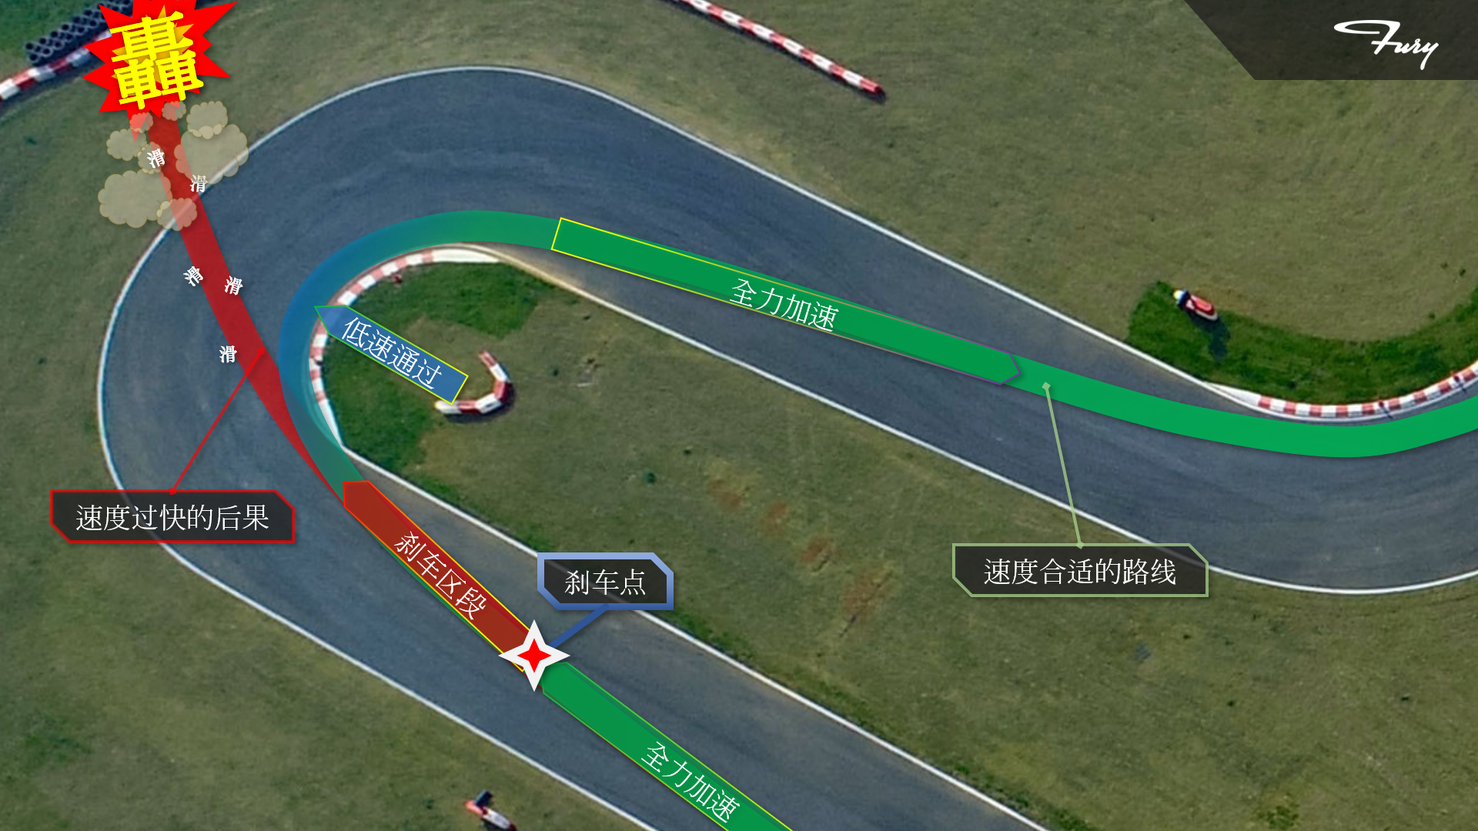
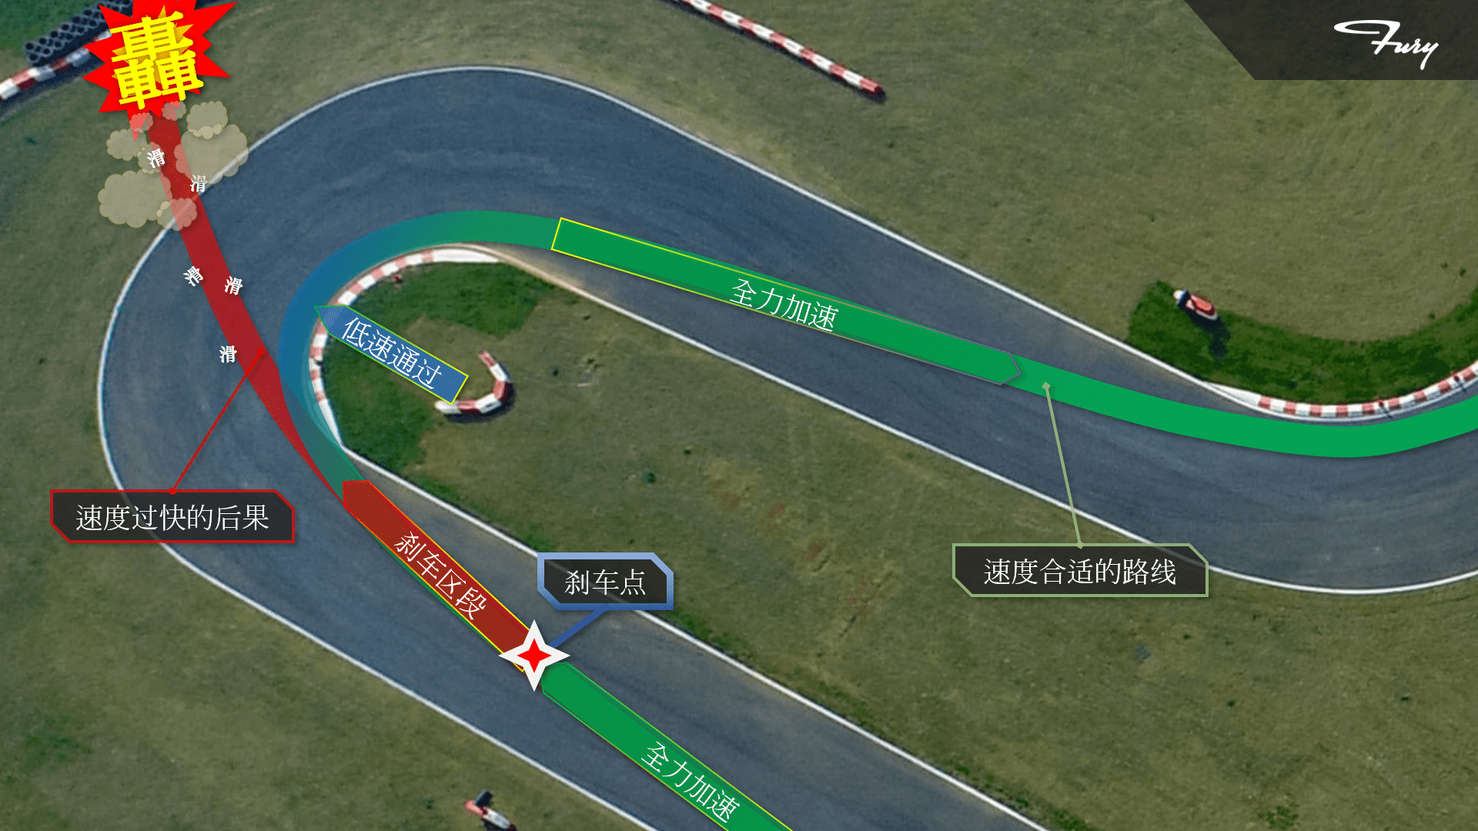
更新底盘车身基础01 旧文档图片压缩

Changed region(s): [[0.2188, 0.3667, 0.25, 0.3972], [0.0312, 0.0611, 0.0625, 0.0917]]

diff --git a/source/_posts/2020/02/底盘车身基础01-轮胎.md b/source/_posts/2020/02/底盘车身基础01-轮胎.md
@@ -1,0 +1,279 @@
+---
+title: 底盘车身基础01-轮胎
+date: 2020-02-09 22:50:00
+categories:
+- 底盘车身基础
+- 底盘组培训
+- 车身组培训
+author: 陈松格
+tags: 陈松格
+---
+
+不知道大家有没有自己去学习了解一些汽车理论方面的知识，这个系列希望能够帮助专业不相关的同学更快入门吧，顺带扯一句我专业生物医学工程我也就看明白了（笑
+
+<!-- More -->
+
+为什么说轮胎最重要，相信大家在看简介的时候就已经有了一定的理解。赛车的全部抓地力都是由轮胎与地面不过巴掌大的接触面实现的。所以我们为了赛车的提升做的所有优化本质上都是为了提升轮胎对地面的最大摩擦力。因此在所有的子系统之前，我们必须了解轮胎。
+
+> 轮胎是一台汽车上最重要的零件（没有之一）。
+>
+> 																	——~~鲁迅~~
+
+## 轮胎坐标系
+
+为了清晰地描述车轮的运动模式，我们定义轮胎坐标系来描述轮胎的运动模式。
+
+![轮胎坐标系](底盘车身基础01-轮胎/轮胎坐标系.png)
+
+轮胎坐标系为一个以**车轮正前方**为x轴正方向，**与地面垂直的正上方**为z轴正方向的**右手系**。
+
+在这个坐标系上我们可以清楚地表示一些轮胎的运动规律：
+
+- 轮胎运动过程中受到切向，侧向与地面法向三个方向的地面反作用力***F<sub>X</sub>***，***F<sub>Y</sub>***，***F<sub>Z</sub>***；
+- 轮胎受到三个方向的力矩：切向称为**翻转力矩*T<sub>X</sub>***，地面法向称为**回正力矩*T<sub>Z</sub>***，侧向为**滚动阻力矩*T<sub>Y</sub>***；
+- 轮胎的滚动并不是圆柱体的滚动，轮胎滚动可能存在**外倾角*γ***；
+- 轮胎的**实际行驶方向**可能与轮胎朝向产生偏角，这被表示为**侧偏角*u***。
+
+## 附着力
+
+赛车依靠轮胎受到的**地面的反作用力**运动，这就是所谓的“抓地力”，为了表示它的极限值，我们引入了**附着力**的概念。同时类比于摩擦系数，我们使用**附着系数**来称呼附着力与地面正压力的比值。
+$$
+F_{max}=F_Zφ\qquad φ=\frac{F_{max}}{F_Z}
+$$
+式中***F<sub>max</sub>***为附着力，***φ***为附着系数。根据力的合成分解原理，附着力与附着系数还可以分为**纵向(切向)**与**横向(侧向)**，分别对应最大的纵向与侧向的地面反力。与此同时，我们还使用**附着率*C***表示轮胎实际附着情况：
+$$
+C=\frac{F}{F_Z}
+$$
+可以看出附着率是一个变量，他与附着系数之恒间有***C ≤ φ***。
+
+我们知道，优化赛车的根本手段是提高赛车轮胎的附着力。根据公式，附着力的提高有两种方法。
+
+1. 提高**正压力*F<sub>Z</sub>***
+
+   如果单纯使用增重提高正压力的话，车重带来的惯量会损失赛车的灵活性。尤其是有输出功率限制的FSAE比赛，增重会极大的影响赛车的直线加速成绩。所以最好地提升手段是使用空气动力学套件，利用**气动下压力**使赛车在速度较快的弯角获得更大的附着力。
+
+2. 提高**附着系数*φ***
+
+   附着系数是一个受到**地面质量、轮胎橡胶性质、轮胎花纹、轮胎接地面积、轮胎倾角、滑移率、侧偏角**等等很多物理属性影响决定的常量。
+   
+   因为它非常复杂，随着工况变化而变化，所以目前没有实时定量的技术水平，只能通过测试估计。但是工程上已经针对各种条件总结出了**附着系数的估计值与变化规律**。整个底盘系统绝大部分优化基于附着系数变化的规律，我们在之后的章节中细节分析。请大家牢记附着系数的概念。
+
+## 轮胎的纵向运动
+
+之前我们了解到，当车轮转矩过大时，轮胎的滚动状态就会被破坏而进入滑动状态，发生空转或抱死。现在我们来讲点细节。
+
+### 现象
+
+如果车轮是一个刚性的圆柱体，而地面是理想粗糙平面，那么车轮与地面之间的滚动就完全依靠圆柱面与地面之间的静摩擦力实现了，此时地面的**附着系数**完全等于**滑动摩擦系数**。这时车轮转矩对应到地面切向反力会有两种状态：
+
+- 当车轮转矩输出到接触面面上的切向力小于附着力(***rT ≤ F<sub>Xmax</sub>***)，此时车轮完全滚动。切向力等于这个转矩的输出。
+- 当车轮转矩输出到接触面上大于附着极限(***rT > F<sub>Xmax</sub>***)，此时车轮开始滑动，切向力达到附着力并保持在附着力上。
+
+然而现实中的轮胎是充气的柔软橡胶表面，地面也是颗粒不平的粗糙平面。这个现实问题让我们不能用上述简单模型描述轮胎运动。实际上的轮胎运动过程中，由于橡胶的柔软，轮辋经由轮胎将力传导至地面的过程中，**轮胎接地面会产生微小的形变**。所以轮胎在加减速行驶过程中，胎面一直会与地面之间产生**微观上的滑移**。也就是说，轮胎在加减速行驶过程中，一直处于一种“**边滚边滑**”的状态。
+
+![纵向轮胎变形](底盘车身基础01-轮胎/纵向轮胎变形.png)
+
+为了描述这种状态，我们引入**滑移率**的定义：
+
+### 滑移率
+
+$$
+s=\frac{u-u_w}{u}\times100\%=\frac{u-rω}{u}\times100\%
+$$
+式中***u***表示车速，***u<sub>ω</sub>***表示车轮转动线速度，***ω***为车轮滚动角速度，***r***为车轮半径。滑移率表示**滑动摩擦在车轮纵向运动中所占的比重**。当车轮纯滚动时，***u<sub>ω</sub>= u*** ，***s = 0***；当车轮抱死纯滑动时，***u<sub>ω</sub>= 0*** , ***s =100%***；当车轮边滚边滑时，***u > u<sub>ω</sub>*** ，***0 < s < 100%***。车轮滑移率越大，说明车轮在运动中滑动成分所占的比例越大。
+
+滑移率能够描述轮胎因为**微观形变产生的滑移**（肉眼几乎不可见），也能够描述**轮胎的宏观滑移**（明显的车轮滑行）。经验告诉我们，一般当滑移率***s ≤ 0.2***，轮胎几乎不会产生宏观滑移；当这个数值超过***0.2***并逐渐增大，轮胎开始产生宏观滑移，并且微观滑移的强度会随着这个数值增大而减弱。这个规律的产生原因与橡胶轮胎的物理特性有关，我把有关内容放扩展吧这里不赘述。
+
+现在我们来看看滑移率这个指标对赛车的影响
+
+### 定性分析
+
+由于**轮胎的变形程度受到地面纵向反力的直接影响**，即有地面纵向反力的产生意味着轮胎一定产生微观滑移。也就是说若将**滑移率**与车轮所受**纵向反力**作图，这条线将会**通过原点**。因此**滑移率能够在一定程度上直接反应轮胎所受纵向反力的大小**。
+
+现在我们将滑移率直接设置为车轮的参数变量，这意味着如果此时有一个地面法向反力作用在这个带有滑移的车轮上，车轮将输出这个滑移所对应的纵向反力。
+$$
+F_X=f[F_Z,s]
+$$
+显然这个纵向反力是能够根据输入的法向力***F<sub>Z</sub>***与滑移率***s***唯一确定的。并且这个力应当是在这个状态下轮胎能够受到的最大纵向反力，符合**纵向附着力*F<sub>Xmax</sub>***的定义。
+$$
+F_{X_{max}}=f[F_Z,s]
+$$
+
+所以若我们消去地面法向反力***F<sub>Z</sub>***的影响，就可以看出**滑移率*s***与**纵向附着系数*φ<sub>X</sub>***之间存在的对应关系。这样我们就得到了**滑移率 - 纵向附着系数**的图像。
+$$
+φ_X=f[s]
+$$
+![滑移率一](底盘车身基础01-轮胎/滑移率一.png)
+
+从这个图像里我们可以看出：
+
+- 在非松质路面下
+  - 随着滑移率提升，轮胎的附着能力基本符合**线性增长-峰值区间-衰减**的规律；
+  - 附着系数峰值普遍出现在上文提到的**微观滑移与宏观滑移相结合**的区间。也就是说，最佳的加速或制动性能出现在轮胎肉眼观察将要出现滑动的临界点，符合客观规律；
+  - 这个曲线会受到**路面条件**很大的影响，实际上附着系数本身就是一个受到很多因素影响的常量。
+- 在松质路面下
+  - 斜率变化平缓，超高的滑移率反而会带来更强的附着能力；
+  - 后段附着能力提升来源于轮胎在松质土地中“刨地”的现象。这就是拉力赛中车手更多使用漂移技术的原因。如果你了解拉力，你会发现虽然在烂路赛段车手会漂移，但在铺装路面赛段车手还是会老实抓地跑的。
+
+实际上轮胎的纵向力学性能受到很多因素的影响，这条曲线的参数还会因为轮胎的配方花纹气压等因素发生改变，在此不赘述。
+
+以上就是轮胎纵向力学的基本规律，接下来讲轮胎的侧向力学规律。
+
+## 轮胎的侧偏运动
+
+轮胎侧向力学研究的是轮胎实际行驶方向与轮胎指向产生**侧偏角**的原因。
+
+### 现象
+
+与纵向运动采用相同的方式开始吧：我们再次假设轮胎是一个刚性圆柱，而地面是一个粗糙的理想平面。轮胎与地面的**侧向附着系数*φ<sub>Y</sub>***等于胎面的**摩擦系数**。此时如果车轮带有初速度，并且不受外力作用，车轮将匀速地沿着轮胎所指的方向滚动。此时如果给轮胎施加**侧向力*F<sub>y</sub>***，那么轮胎会受到地面的**侧向反力*F<sub>Y</sub>***的作用。按照这个逻辑，就可以估计出轮胎侧向运动的现象：
+
+- 当**侧向力**未达到轮胎的侧向附着力(***F<sub>y</sub> ≤ F<sub>Ymax</sub>***)，轮胎在侧向上与地面仍然是静摩擦的状态，所以轮胎依旧沿着原有的方向直线匀速滚动；
+- 当侧向力超过了轮胎的侧向附着极限(***F<sub>y</sub> > F<sub>Ymax</sub>***)，轮胎在侧向上开始了**滑动摩擦**，发生**侧向运动**。侧向运动与原有的滚动的合运动与轮胎的指向间产生了一个角度，我们称其为**侧偏角*α***，轮胎的行驶方向与实际指向不同，这就是轮胎的**侧偏运动**。
+
+![侧偏角](底盘车身基础01-轮胎/侧偏角.png)
+
+然而需要再一次强调的，现实中的轮胎是一个柔软的充气橡胶物体，地面也是颗粒不平的，所以上述理想模型肯定是无法描述实际情况的。侧偏运动的实际原理较之纵向运动在理解上稍复杂一些，我们另起一段↓
+
+在地面侧向反力的作用下，如果轮胎是静止不动的，那么轮胎靠近地面的部分就会被“掰弯”
+
+![轮胎形变](底盘车身基础01-轮胎/轮胎形变.png)
+
+在这种形变下，**轮胎接地面的中心轨迹就会发生变化**，我们可以在图上清楚地看出来：**A<sub>0</sub>**到**A<sub>5</sub>**的位置在正视图上发生了明显的弯曲。如果此时轮胎滚动的话，很容易想象的是，**车轮的滚动路线就会沿着轮胎的中心线发生偏移**。一个柔软的轮胎在收到侧向力状态下滚动的时候，这种弯曲的状态是实时发生的，轮胎每转过一个点，就会随着这个轨迹发生偏移。因为这个现象，**只要轮胎受到侧向力的作用，它就会产生侧偏运动**。
+
+理解了之前在纵向运动中描述的“**微观形变**”，你就会意识到，轮胎**侧偏角**与**滑移率**一样，与轮胎受到的侧向反力直接对应，**当轮胎受到侧向反力*F<sub>Y</sub>*，它就会产生侧偏角*α***。因此我们也可以用**侧偏角一定程度上反应轮胎受到侧向反力的大小**。
+
+### 定性分析
+
+现在我们可以用熟悉的方式操作了：我们将侧偏角也作为车轮运动的参数变量，将**法向反力*F<sub>Z</sub>***、**侧偏角*α***作为输入，就可以直接得到轮胎所受到的**侧向反力*F<sub>Y</sub>***的值：
+$$
+F_Y=f[F_Z,α]
+$$
+可以看到，这个侧向反力也是可以根据输入唯一确定的，我们把它直接换成**侧向附着力*F<sub>Ymax</sub>***:
+$$
+F_{Y_{max}}=f[F_Z,α]
+$$
+然后我们将**轮胎的法向力*F<sub>Z</sub>***设为不同的定值，就得到了**侧偏角 - 侧向反力**的图像。
+$$
+F_{Y}=f[α]
+$$
+![侧偏角一](底盘车身基础01-轮胎/侧偏角一.png)
+
+这个图像告诉我们：
+
+- 与滑移率相同，侧偏角图像有一个**线性增长**的区间，而在到达峰值后会**很缓慢的衰减**；
+- 由于轮胎侧向运动的速度与纵向运动速度之间存在着很大的差距，所以侧向反力的图像**与纵向附着系数的前段非常相似**。
+- 图像因变量为侧向反力，所以随着**地面法向反力*F<sub>Z</sub>***的增加和减少，曲线的幅度会发生变化。
+
+看到这里大家可能产生了一点疑惑：**为什么使用侧向反力作为因变量，而不是侧向附着系数呢？**
+
+再稍加仔细地观察，上面的图像中随着正压力的变化，曲线的变化并不是线性的：**轮胎的侧向附着系数与轮胎所受的法向反力相关**。轮胎产生扭转变形引起的侧偏运动相较于纵向的滑移，对压力更加敏感，过高的压力会引起侧向附着系数的下降。
+
+因此我们描述轮胎侧向性能的时候，一般不用侧向附着系数，而是**侧偏刚度*k***。在很多文献中的**附着系数*φ***指纵向附着系数。
+
+### 侧偏刚度
+
+侧偏刚度定义为轮胎所受**侧向力*F<sub>y</sub>*与侧偏角*α*的比值**，单位为（***N/deg***)。在轮胎坐标系中观察规律，我们会发现侧向力与侧偏角的方向是相反的，所以**侧偏刚度是一个负值**。如果将它放在图像上，它是**侧偏角 - 侧向力**图像在原点的斜率。由于图像在到达峰值区域前仍然有相当长的一段线性区间，因此侧偏刚度还是能够很好地用来描述轮胎的侧向性能的。
+
+现在我们看看**垂直载荷(法向力) - 侧偏刚度**的图像
+
+![垂直载荷-侧偏刚度](底盘车身基础01-轮胎/垂直载荷-侧偏刚度.jpg)
+
+↑很清楚地看见，对于同种型号的轮胎，随着法向力的增加，侧偏刚度有**线性增长 - 增速放缓 - 下降**的变化趋势。因此可以很自然地看出为什么在评价侧向性能指标时不使用侧向附着系数。在这个趋势下我们做出**垂直载荷 - 侧偏力(侧向反力)**的图像，它应该是这样的↓
+
+![垂直载荷-侧偏力](底盘车身基础01-轮胎/垂直载荷-侧偏力.jpg)
+
+这两幅图像告诉我们：
+
+- 决定赛车过弯性能的本质还是轮胎，赛车轮胎本身更高的侧偏刚度决定了赛车能够实现远超民用车的过弯响应；
+- 由于侧偏性能受到轮胎垂直载荷的影响，重量大的赛车在弯道上必然陷入劣势。因此**车子还是越轻越好**；
+- 气动下压力能够在不提升车重的基础上提升过弯性能。
+
+实际上如果垂直载荷无限增大，轮胎的纵向力学特性也会受到这样的影响。但是一般载荷无法增大到这个量级，而且在到达明显变化的区间之前，轮胎应该已经爆了（笑
+
+### 附着椭圆
+
+现在我们来看看侧偏运动与纵向运动之间的关系。之前我们了解过**g值圆**的概念。使用g值圆衡量车手驾驶水平时，我们会注意刹车 - 入弯的加速度转移过程。![图18](底盘车身基础01-轮胎/图18.png)
+
+纵向附着与侧向附着的共同点就是都伴随着轮胎的形变，**橡胶的变形张力极限**就是这些加速度极限的来源。所以轮胎能提供的最大纵向力与侧向力是关联在一起的。如果将轮胎的纵向附着力与侧向附着力做图，就会是如下的形式↓![附着椭圆](底盘车身基础01-轮胎/附着椭圆.jpg)
+
+在图上我们很容易就能看出：在不同的侧偏角下，侧向附着都有随着随着纵向附着增大而减小的趋势。这些图线的包络形成一个椭圆形，因此被称为**附着椭圆**。
+
+如果你理解了以上内容，你就已经掌握轮胎行驶过程中两个分运动方向的基本运动形式了。现在我们了解一些其他的关键知识点吧。
+
+## 回正力矩
+
+我们转向时，会在方向盘上感受到促使方向盘回正的力，组成这个力的成分中，就有一部分来自于轮胎的**回正力矩**。
+
+### 现象
+
+在轮胎坐标系中，回正力矩被定义为地面法向的力矩。当轮胎侧偏运动的时候，在这个方向上就会有力矩使**轮胎倾向于与轮胎实际运动的方向对正**。
+
+要解释这个力矩产生的原因，我们还是那句老话：**轮胎是一个柔软的充气橡胶圆柱**。由于刚性轮理想模型不会产生回正力矩，这里我们直接讲实际现象。
+
+当在地面上滚动的时候，柔软的**轮胎与地面之间存在一个近似于椭圆或圆角矩形的接地面**。如果我们再细分，这个面可以被分为很多**与轮轴平行的线微元**。很好理解的是，在轮胎滚动的瞬态过程中(不存在宏观滑移)，这个接地平面最后段旧的微元离开地面，而最前端又有新的微元接触地面，循环往复。↓![回正力矩图解1](底盘车身基础01-轮胎/回正力矩图解1.png)
+
+现在我们给轮胎加上侧向力，于是轮胎开始有了侧偏运动，接地面就与正常滚动的轮胎相比发生偏移↓![接地面偏移](底盘车身基础01-轮胎/接地面偏移.png)
+
+上图中存在一个非常明显的问题：接地面前后端的偏移量是相同的,这是轮胎静止产生的。在轮胎滚动的过程中，由于接地面的前后端接地时间不同，**后端明显比前端接触地面时间更长，偏移距离也更长**，因此这个接地面在滚动时应该是一个接近平行四边形的状态↓![接地面偏移修正](底盘车身基础01-轮胎/接地面偏移修正.png)
+
+这样一来回正力矩的产生也就不难理解了：根据弹力的原理，**接地面后端更大的形变量显然会引起更大的轮胎回弹力**。在接地面上的**前后弹力差**形成了促使轮胎指向实际行驶方向的回正力矩。
+
+### 定性分析
+
+回正力矩与侧偏运动是同时存在的，我们使用侧偏角来关联轮胎产生的侧向附着力，也用侧偏角来关联回正力矩。先人根据经验整理出了如下图所示的关系↓![回正力矩图像](底盘车身基础01-轮胎/回正力矩图像.jpg)
+
+这张图像可以很清晰地看出：
+
+- 回正力矩的变化趋势同样是近**线性增长 - 峰值区间 - 减弱**；
+- 随着正压力的变化存在幅度变化；
+
+更加仔细地观察，我们会发现，相较于纵向附着与侧向力，**回正力矩的下降非常剧烈**。究其原因还是它的发生机理：当轮胎接近附着极限时，接地面的后端显然会比前端更早突破极限并开始宏观滑移。当**后端回弹力不再增大而前端回弹力持续增加**，轮胎的回正力矩就开始下降，甚至在极端情况下达到负值。因此，有经验的车手能够通过方向盘力回馈的变化来判断赛车转向过程中侧向极限的逼近程度。![回正力矩极限](底盘车身基础01-轮胎/回正力矩极限.jpg)
+
+如果将接地面所受的力积分，我们会发现这个合力在数值上就是**侧向反力*F<sub>Y</sub>***。它的作用点恰好能将这个合力分为数值相等的前后两部分，作用点与轮胎坐标系z轴的纵向距离被称为**轮胎拖距*e***。显然的对于**回正力矩*T<sub>Z</sub>***存在
+$$
+\vec T_Z=\vec F_Y\times \vec e
+$$
+
+## 外倾角
+
+轮胎坐标系中还有一个定位输入量——外倾角。之前描述的现象中，我们都有“轮胎正着滚动”这样一个大前提，现在我们加入最后一个变量。
+
+### 现象
+
+轮胎在滚动过程中出现了倾角，那么它会开始转向倾倒的方向滚动，直到倒下为止。你可以试着滚一枚硬币，当它开始倾倒的时候也会出现这种现象。这是因为倾斜滚动的物体可以类比为一个滚动的圆锥或圆台，因为滚动半径的不同，必然会向着滚轴倾斜的方向转弯。这种现象也会被称为“滚锥效应”。![滚锥效应](底盘车身基础01-轮胎/滚锥效应.jpg)
+
+↑因此当轮胎指向固定而带着外倾角行驶时，外倾的偏转行驶趋势受到轮胎固定装置的**约束力*F<sub>y</sub>***作用，会与地面之间产生额外的**侧向反力*F<sub>Y<sub>γ</sub></sub>***。这个力被称为**外倾侧向力**。
+
+### 定性分析
+
+我们将外倾角与滑移率或侧偏角一样，作为轮胎的一个参数输入轮胎的话，就会得到**外倾角 - 外倾侧向力**的关系↓![外倾侧向力](底盘车身基础01-轮胎/外倾侧向力.jpg)
+
+根据图像所示的关系，我们不难推断：
+
+- 外倾角与外倾侧向力关系基本是线性的；
+- 类比于**侧偏刚度*k***，我们将外倾角转化为外倾侧向力的系数称为轮胎的**外倾刚度*k<sub>γ</sub>***；
+- 如果一个轮胎在滚动中同时带有侧偏角与外倾角，那么这两个变量带来的侧向力能够**叠加**。![外倾叠加](底盘车身基础01-轮胎/外倾叠加.jpg)
+
+所以如图所示↑，一个轮胎所受的**侧向力*F<sub>Y</sub>***可以有如下关系：
+$$
+F_Y=k\alpha +k_{\gamma}\gamma
+$$
+
+## 总结一下
+
+至此，我们基本了解了与轮胎有关的所有参数与变量。事实上在现代的工程设计过程中，轮胎的特性参数会根据一系列的测试建立数学模型，并封装到仿真工具中。实际操作过程中可能并不会接触到这些底层的问题。但是一定要有对这些现象的基本理解，因为这些关系本身就是很多设计思路的理论基础。
+
+轮胎模型系统一般以如下的形式存在：
+
+![轮胎模型](底盘车身基础01-轮胎/轮胎模型.png)
+
+轮胎**魔术公式**模型是由代尔夫特理工大学的Hans B. Pacejka教授提出的一系列描述轮胎动态力学性质的数学模型，目前在工程界被广泛地使用。关于它的具体关系在此不做赘述，大家有兴趣的或者工作涉及仿真与轮胎模型时请自行查阅吧。
+
+### 一些资源
+
+- [James Sun - 从拟真向竞速游戏出发，聊聊关于赛车动力学的事（轮胎篇）](https://www.gcores.com/articles/93039)
+- [汽车理论课件-汽车理论第五版-清华大学余志生 - 百度文库](https://wenku.baidu.com/view/34a4c450ef06eff9aef8941ea76e58fafab04598.html)
+- [Hans B. Pacejka - wikipedia](https://en.wikipedia.org/wiki/Hans_B._Pacejka)
+- [马语者 - 轮胎的魔术公式(Magic Fomula)模型](https://www.cnblogs.com/xpvincent/archive/2013/02/03/2890802.html)
+- [汽车理论（清华大学） - bilibili](https://www.bilibili.com/video/av67716364/)
+

diff --git a/source/_posts/2020/02/三维绘图01-零件还原.md b/source/_posts/2020/02/三维绘图01-零件还原.md
@@ -3,8 +3,8 @@ title: 三维绘图01-零件还原
 date: 2020-02-06 00:50:00
 categories:
 - SolidWorks三维建模
-- [底盘组培训, 2020寒假]
-- [车身组培训, 2020寒假]
+- 底盘组培训
+- 车身组培训
 author: 陈松格
 tags: 陈松格
 ---
@@ -17,7 +17,7 @@ tags: 陈松格
 
 ## 实例：iPhone 5
 
-范例模型：[iPhone 5.SLDPRT](三维绘图01-零件还原\iPhone 5.SLDPRT)
+点击下载→[范例模型](三维绘图01-零件还原\iPhone 5.SLDPRT)
 
 请安装[SolidWorks 2016](https://mp.weixin.qq.com/s?__biz=MzIwMjE1MjMyMw==&mid=2650199099&idx=3&sn=a5ba516295d46084000fdfe60b657e5f&exportkey=AxGu%2FIcqIOMfR5x%2Bi91P2aQ%3D&pass_ticket=gg3UwSJIdyvqPuA%2F5cXd9W%2FrH8eSgfM%2FOG5Y6WND07td9oVNcWW2XkmMhjeZJcWc)或以上版本查看
 
@@ -218,6 +218,8 @@ iPhone 5的质量是112g，所以我们在编辑界面输入![52](三维绘图01
 ## 任务
 
 当然，作为一篇教程，最后给想学三维制图的同学布置一点简单的小任务：
+
+不会做可以积极请教老队员哦（笑
 
 ### 【任务·简单】
 
